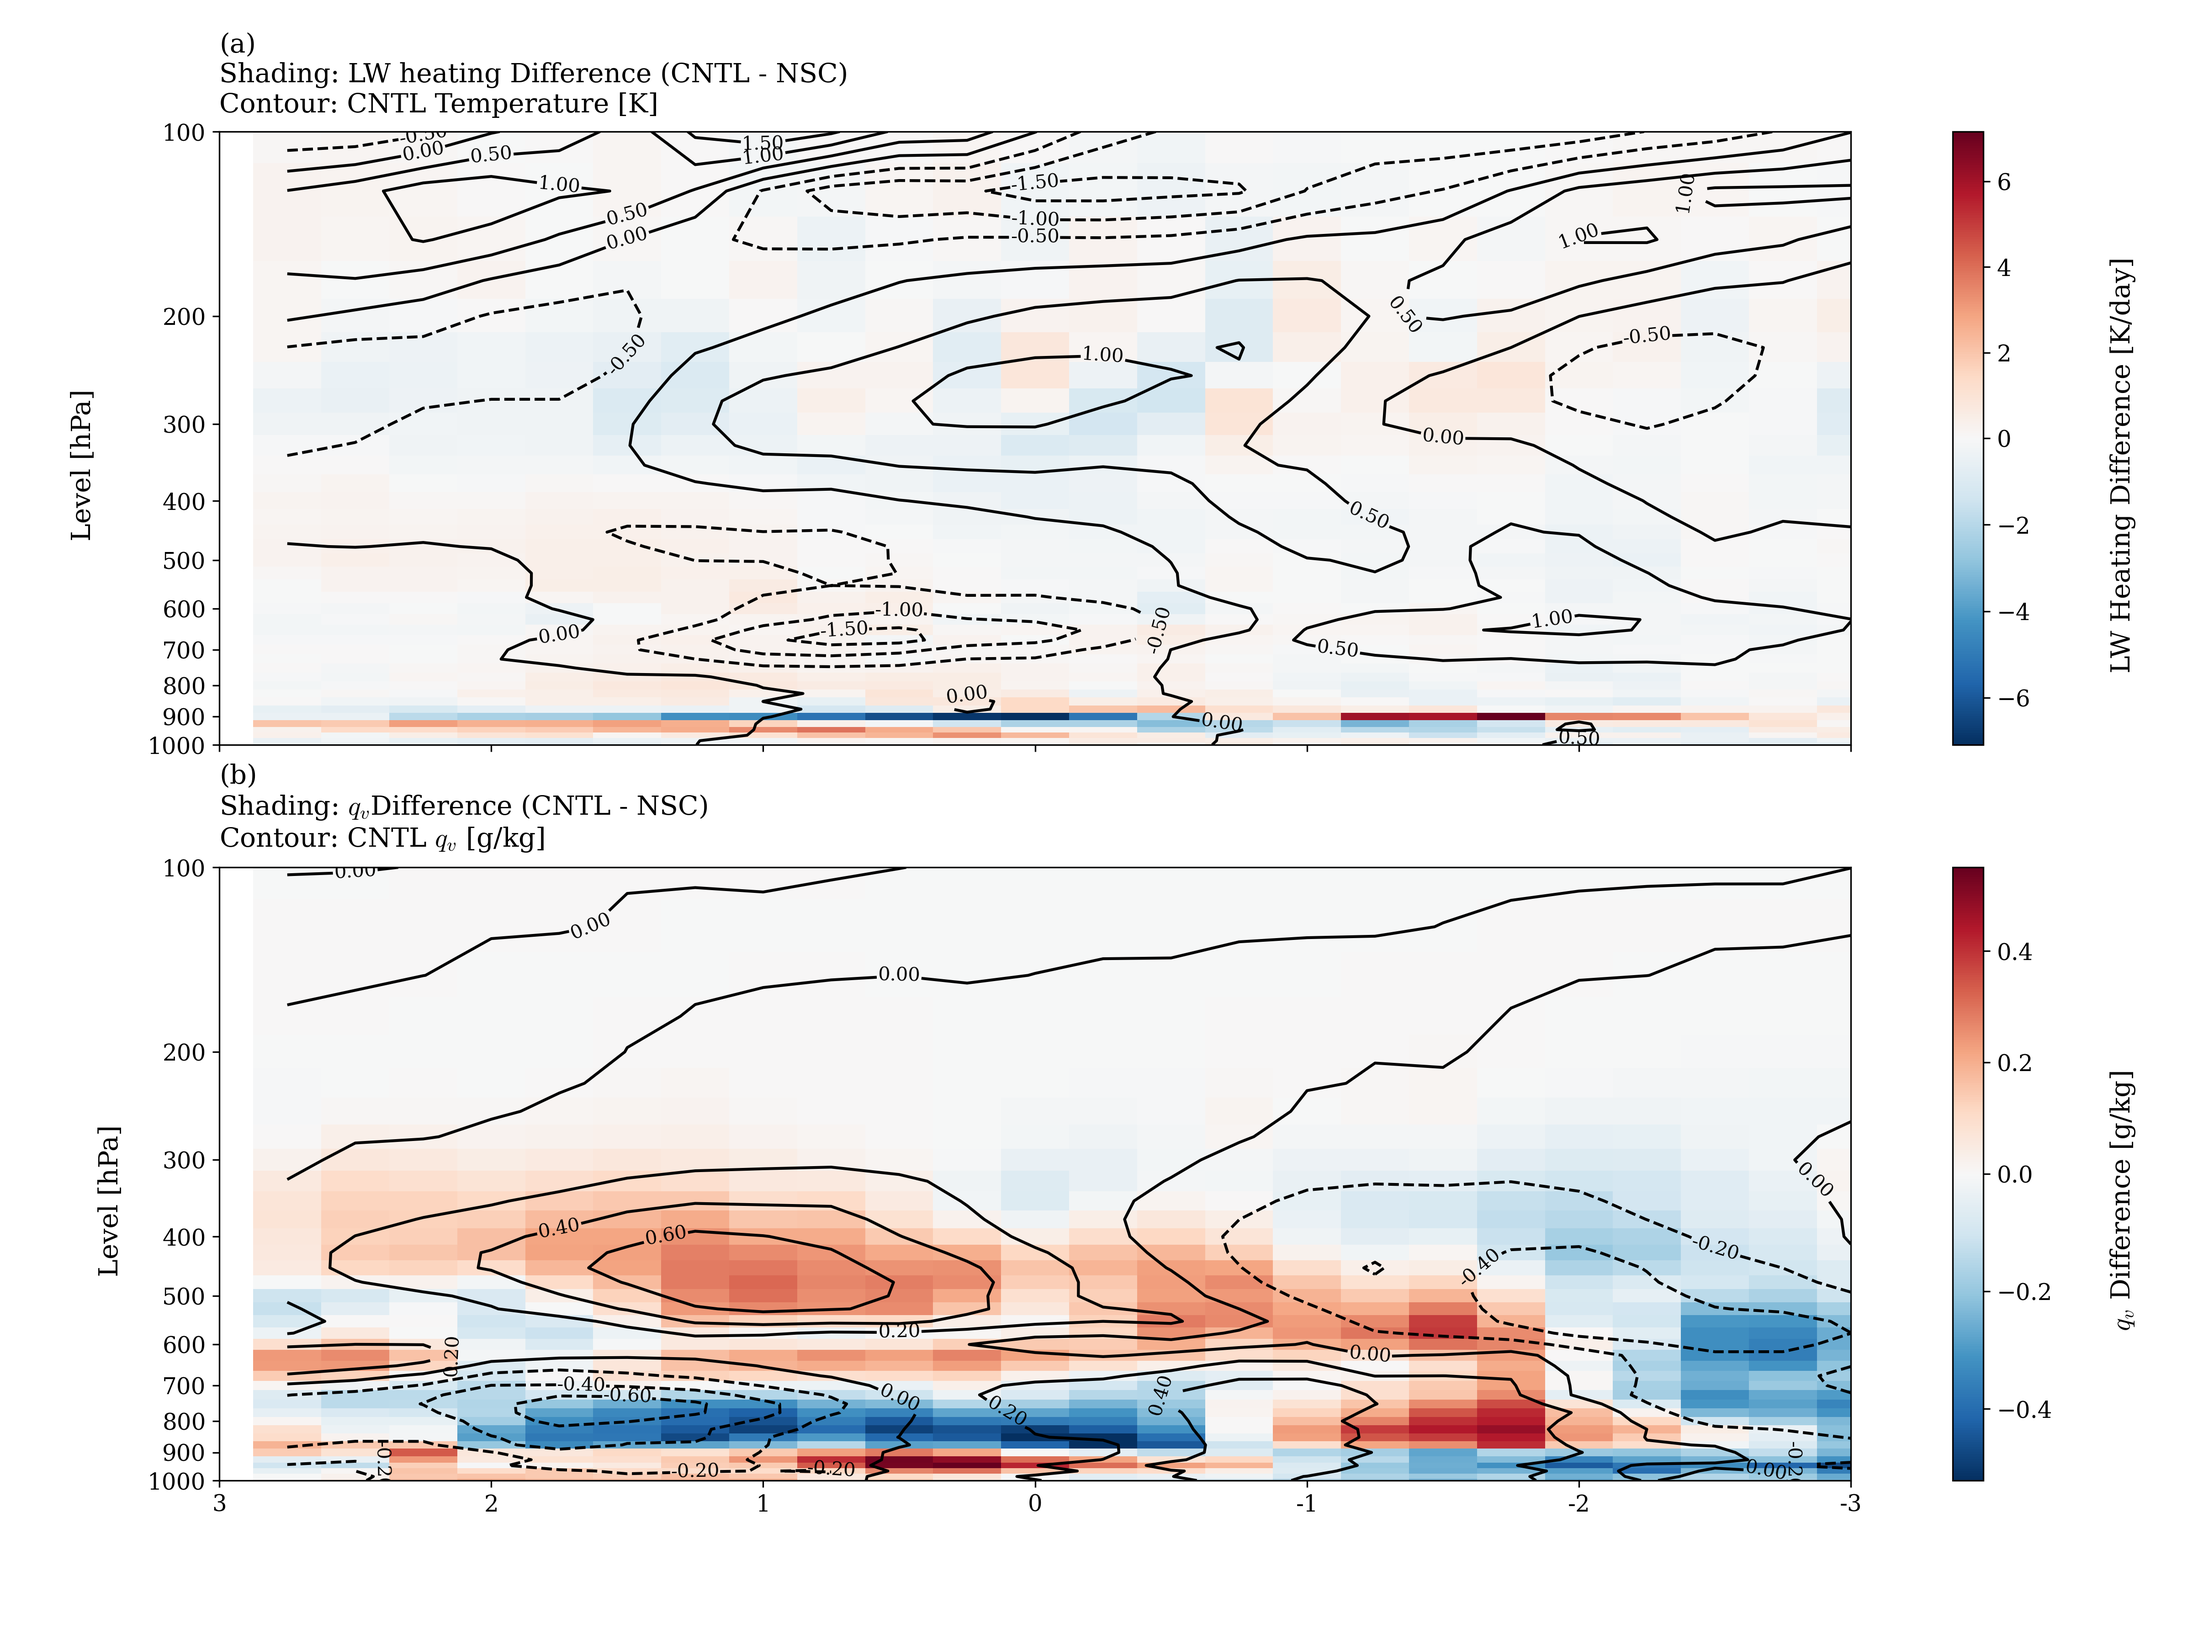
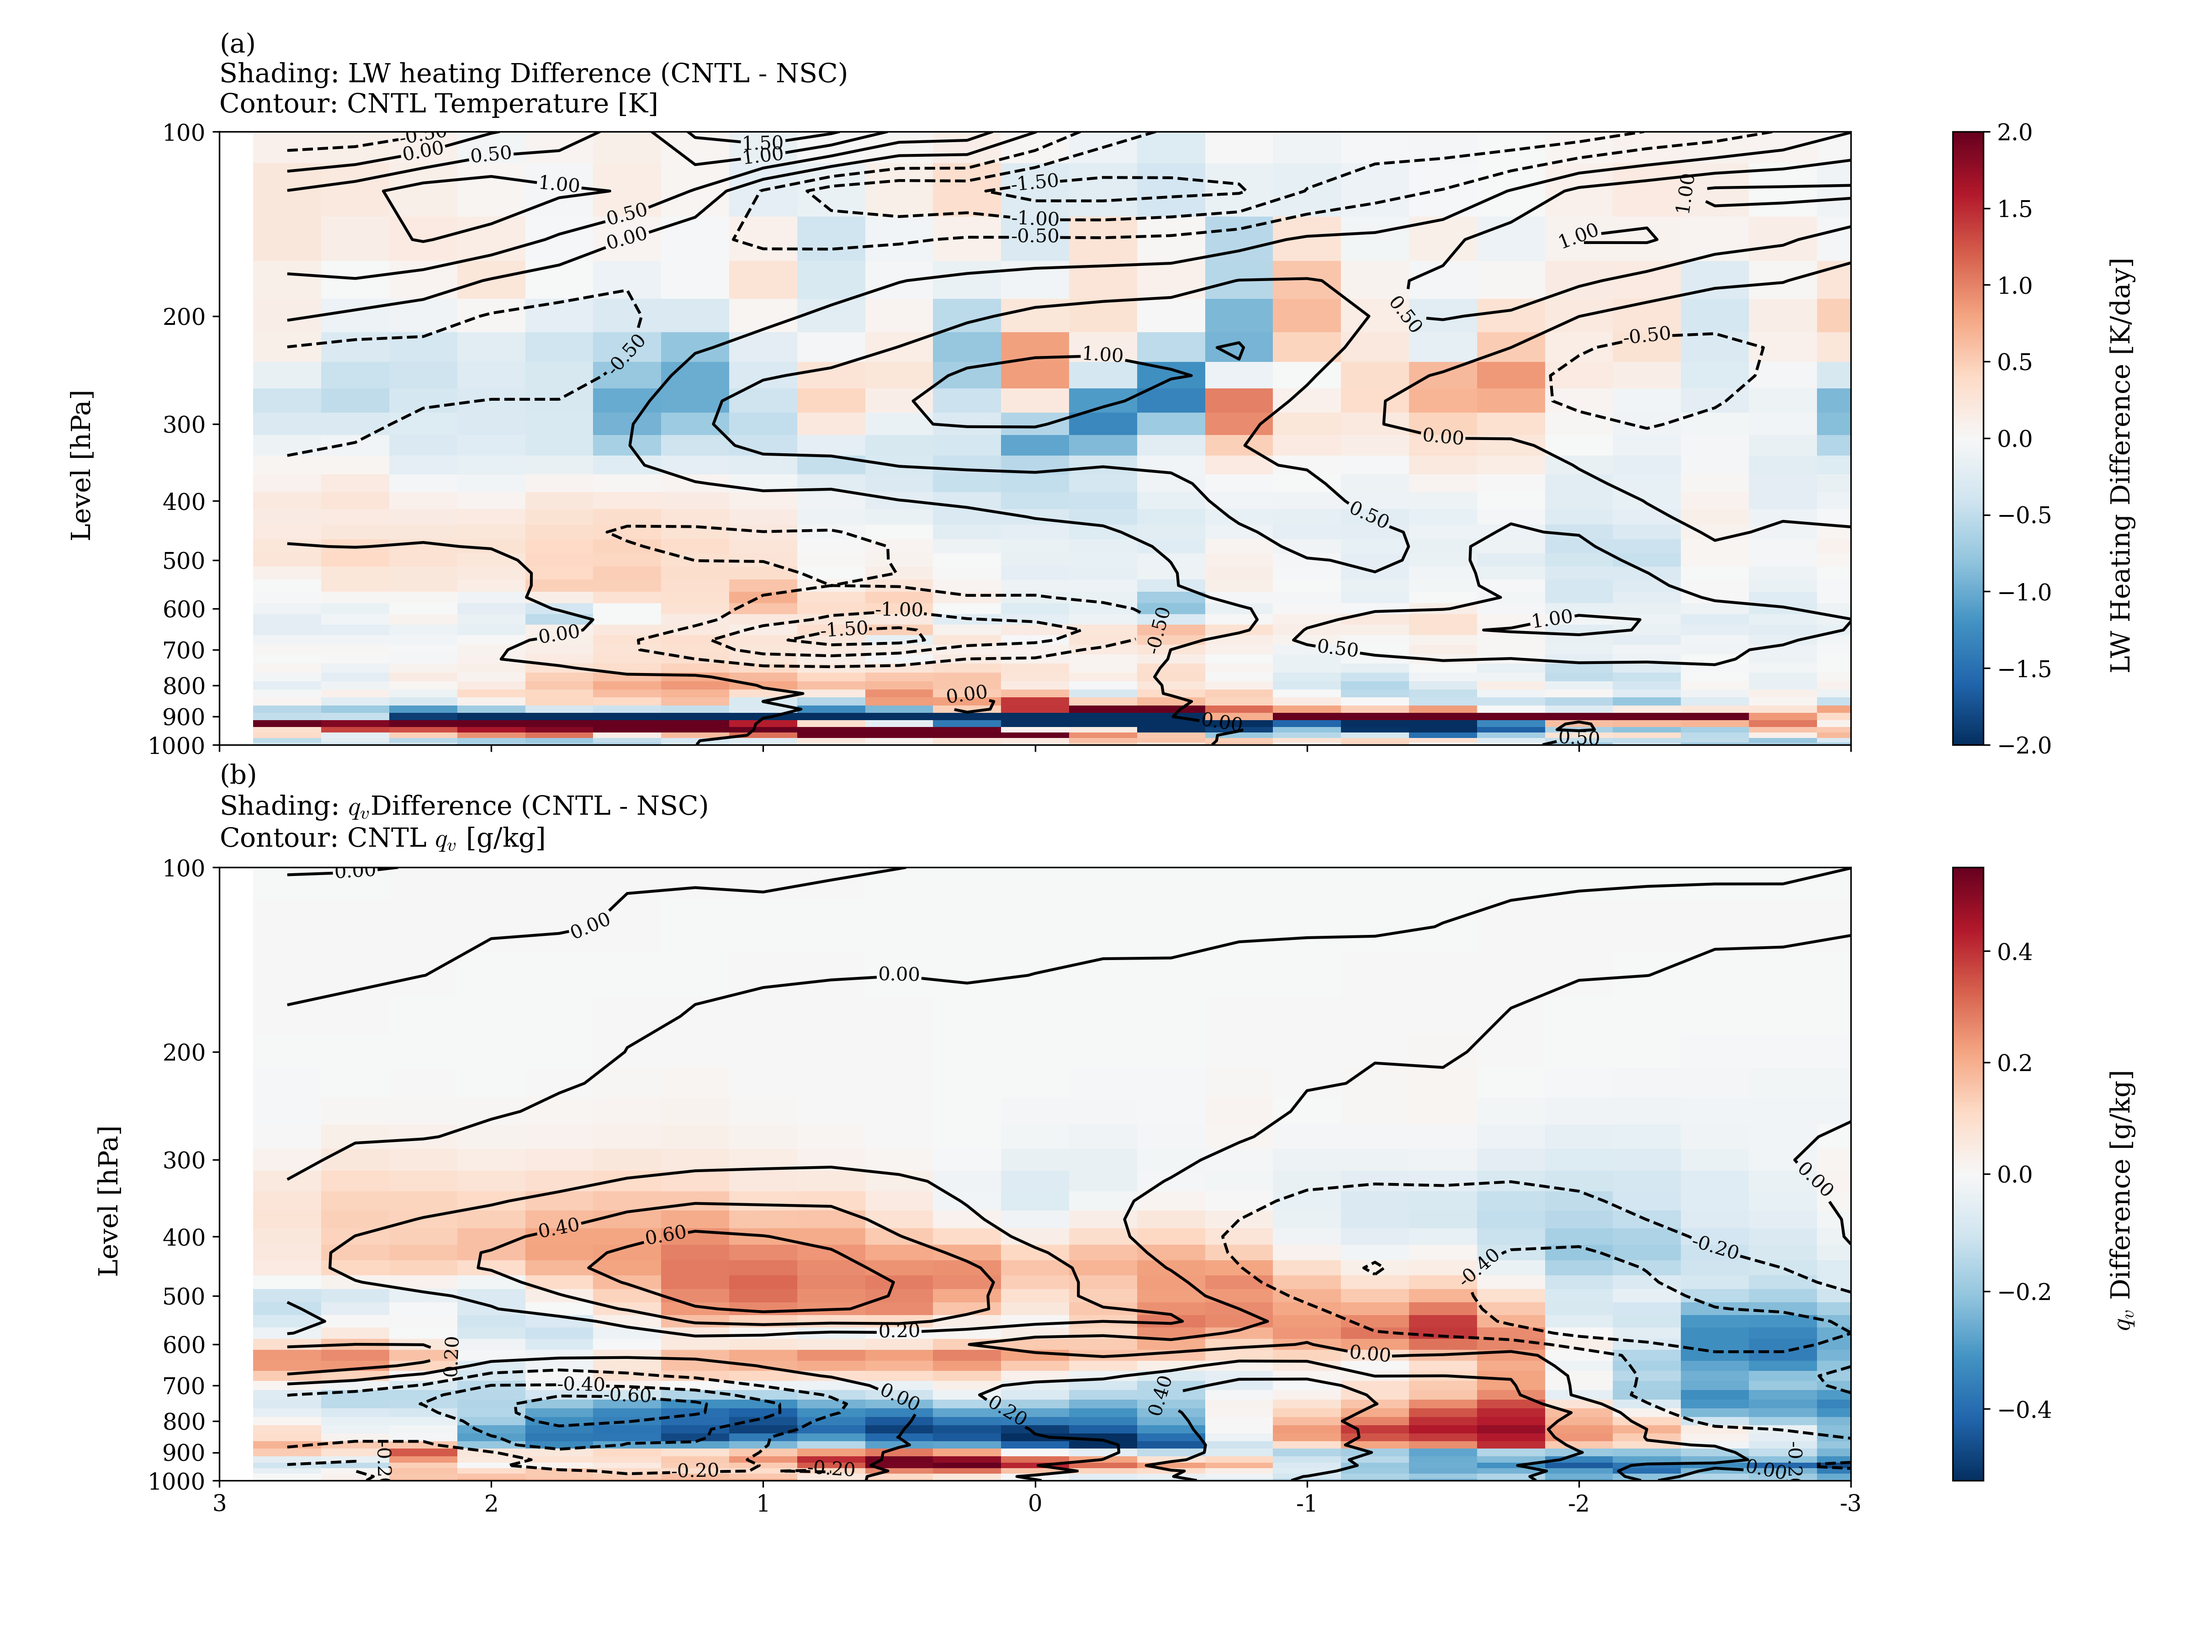
New CNTL-NSC LW difference

diff --git a/Major/CNTL_NSC/LW_diff.py b/Major/CNTL_NSC/LW_diff.py
@@ -103,7 +103,7 @@ fig, ax = plt.subplots(2, figsize=(16, 12), sharex=True);
 lw_diff = ax[0].pcolormesh(
     np.linspace(-3, 2.75, 24), dims["lev"],
     data_sel["cntl_lw"] - data_sel["nsc_lw"],
-    cmap="RdBu_r", norm=TwoSlopeNorm(vcenter=0),
+    cmap="RdBu_r", norm=TwoSlopeNorm(vmin=-2, vcenter=0, vmax=2),
 );
 
 t_c = ax[0].contour(
